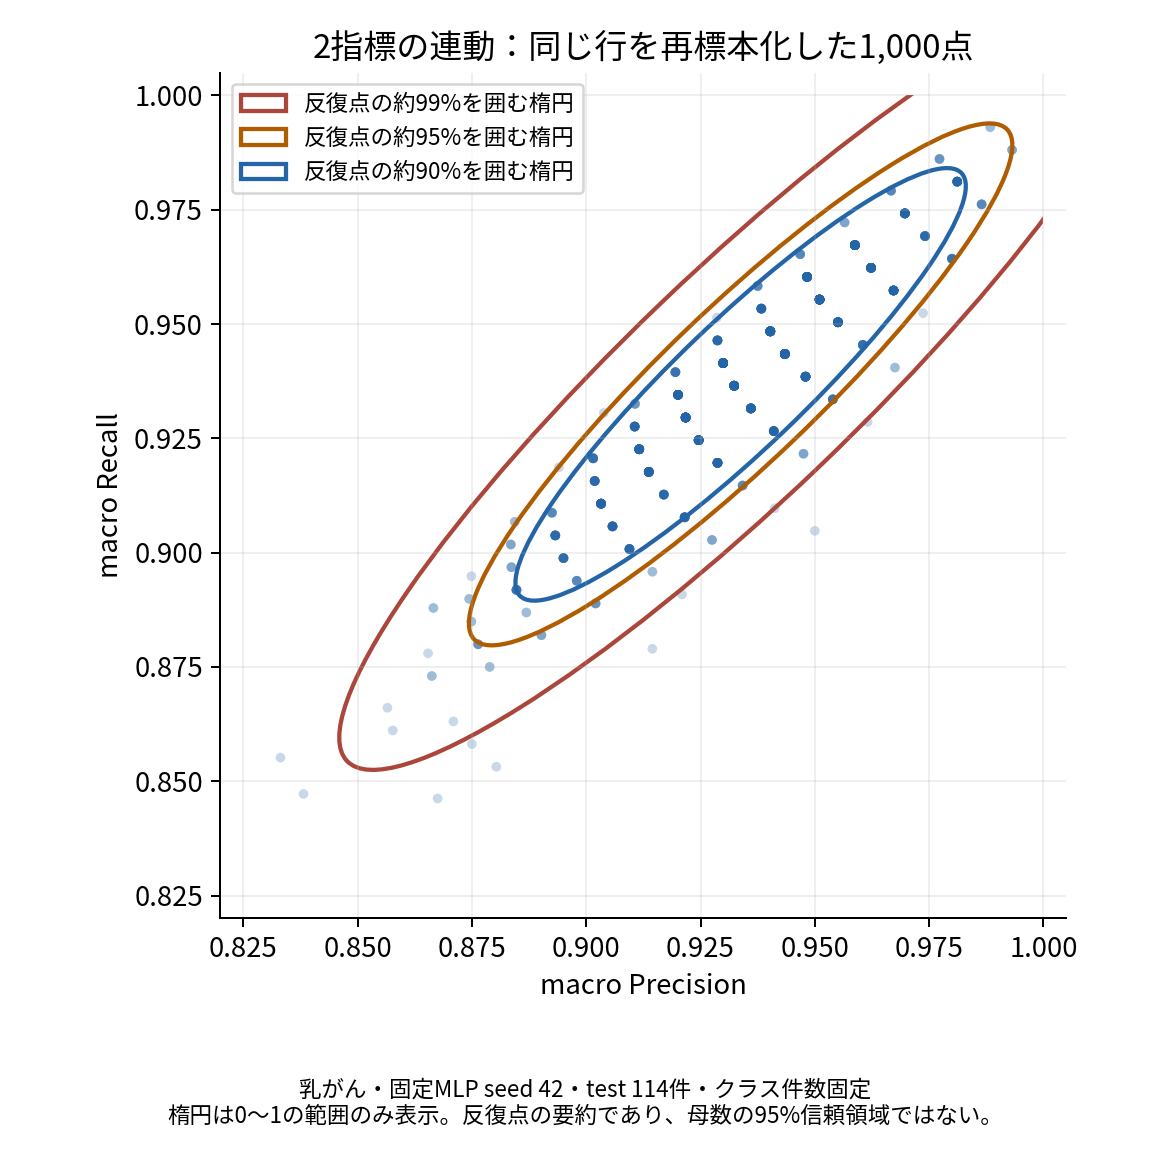
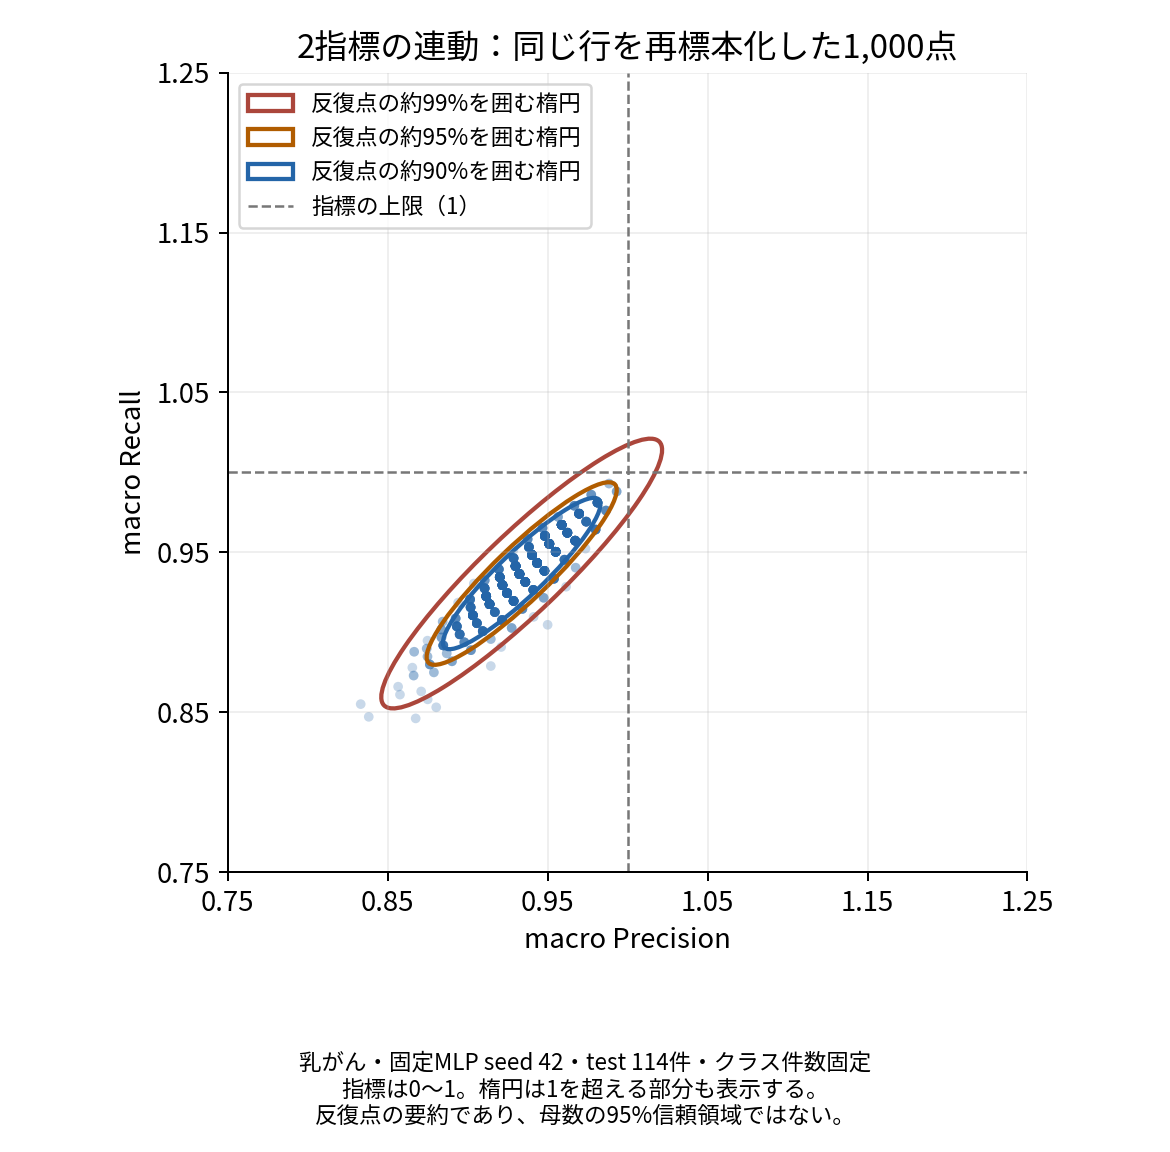
docs: show complete bootstrap ellipses on wider axes

diff --git a/scripts/render_evaluation_article_figures.py b/scripts/render_evaluation_article_figures.py
@@ -12,7 +12,7 @@ os.environ.setdefault('MPLCONFIGDIR', str(Path(tempfile.gettempdir()) / 'diy-aut
 import matplotlib
 matplotlib.use('Agg')
 import matplotlib.pyplot as plt
-from matplotlib.patches import Ellipse, Rectangle
+from matplotlib.patches import Ellipse
 import numpy as np
 import pandas as pd
 from sklearn.metrics import f1_score
@@ -153,19 +153,23 @@ def main():
                           fill=False, edgecolor=color, lw=1.7,
                           label=f'反復点の約{fraction:.0%}を囲む楕円')
         ax.add_patch(ellipse)
-        ellipse.set_clip_path(Rectangle((0, 0), 1, 1, transform=ax.transData))
         ellipse_records.append(dict(fraction=fraction, actual_fraction=coverage,
                                      squared_distance_threshold=threshold))
     point = next(r for r in records if r['dataset'] == 'breast_cancer' and r['training_seed'] == 42)
-    ax.set(xlabel='macro Precision', ylabel='macro Recall', xlim=(.82, 1.005), ylim=(.82, 1.005),
+    ax.set(xlabel='macro Precision', ylabel='macro Recall', xlim=(.75, 1.25), ylim=(.75, 1.25),
            title='2指標の連動：同じ行を再標本化した1,000点')
+    ax.set_xticks(np.linspace(.75, 1.25, 6))
+    ax.set_yticks(np.linspace(.75, 1.25, 6))
+    ax.axvline(1, color='#777777', ls='--', lw=1, label='指標の上限（1）')
+    ax.axhline(1, color='#777777', ls='--', lw=1)
     ax.set_aspect('equal')
     ax.grid(alpha=.2)
     ax.legend(loc='upper left', fontsize=9)
     fig.text(.5, .025, f"乳がん・固定MLP seed 42・test {point['test_rows']}件・クラス件数固定\n"
-             '楕円は0〜1の範囲のみ表示。反復点の要約であり、母数の95%信頼領域ではない。',
+             '指標は0〜1。楕円は1を超える部分も表示する。\n'
+             '反復点の要約であり、母数の95%信頼領域ではない。',
              ha='center', fontsize=9)
-    fig.tight_layout(rect=(0, .1, 1, 1))
+    fig.tight_layout(rect=(0, .14, 1, 1))
     save(fig, 'evaluation-joint-bootstrap.png')
 
     assert before == {str(p.relative_to(ROOT)): digest(p) for p in inputs}, 'Inputs changed'
@@ -175,6 +179,8 @@ def main():
         validated_saved_runs=6, independent_sklearn_checks=24, estimates=records,
         breast_cancer_history=history_summary,
         joint_bootstrap=dict(dataset='breast_cancer', training_seed=42,
+            axis_limits=dict(x=[.75, 1.25], y=[.75, 1.25]),
+            ellipse_clipped_to_metric_domain=False,
             correlation=float(np.corrcoef(points, rowvar=False)[0, 1]),
             method='Empirical quantiles of squared Mahalanobis distances around bootstrap mean; '
                    'descriptive point coverage, not parameter confidence coverage',

diff --git a/docs/ZENN_EDITORIAL_NOTES.md b/docs/ZENN_EDITORIAL_NOTES.md
@@ -1,5 +1,13 @@
 # Zenn原稿の一次稿と確認する観点
 
+## 2026年11月12日：公開後の楕円図の表示範囲修正
+
+利用者からZennでの公開完了と、AIチェッカーのレビュー結果の共有があった。公開済み本文の取得による照合とは区別する。
+
+`evaluation-joint-bootstrap.png` の見切れについて、利用者の提案どおりx・y両軸を0.75〜1.25へ広げた。初稿には軸範囲に加え、楕円を指標の定義域0〜1で切り落とす設定があったため、その制限を解除した。指標自体の上限1は破線で示し、楕円が1を超える部分は点群の幾何学的な要約であり、その値の観測を意味しないと図注・本文に記載した。
+
+同じ再描画コードで図と描画記録を更新した。99%楕円の外接範囲はPrecision約0.846〜1.022、Recall約0.852〜1.021で、全体が新しい軸内に収まることを確認した。元の入力ファイル、反復値・統計量、学習履歴、他の2図のハッシュは不変。保存済み6出力の検証と24件の独立照合も再実行した。今回の反映用ブランチは `docs/joint-bootstrap-axis-range`、反映先は `main`。
+
 ## 2026年11月12日：親記事の改稿と実測図
 
 追加の方針として、アヤメなどの定番データで仕組みを確かめた先に「性質をまだ十分に知らないデータから、統計量・誤差・過程の記録を通じて品質を議論する」という方向を親記事の導入と結論へ反映した。今後の流れを、出典・意味・評価単位の確認→分布や欠損等の点検→処理を通じた変化と揺れの追跡→用途に応じた追加確認、の4段階で記載した。誤差伝搬の公式は今回載せず、相関・非線形性と、入力の測定不確かさ／指標の標本不確かさの違いを短く説明する。汎用の品質診断や入力からの誤差伝搬を実装済みとは扱わない。
@@ -9,7 +17,7 @@
 - 構成は、誤差が必要な理由→誤差の由来とデータ品質→途中経過を保存する目的→組込み3データ→実測の区間・学習履歴・2指標の連動→業務例→結論。
 - Iris・Wine・乳がんのMLPについて、保存済みの全2学習seed（42/43）を使った点推定のみ／条件付き95%区間付きの比較図を追加した。数値を再生成せず、既存の予測とbootstrap出力を使用した。
 - 乳がんの全2seedの学習・検証損失を描画し、seed 42では検証損失が12 epochで約0.090、100 epochで約0.246となる推移を記載した。過学習を調べる手掛かりとして扱い、原因の確定や早期終了による改善実績とはしていない。
-- 乳がん・固定seed 42のPrecision/Recallのbootstrap反復点と、その点群の約90/95/99%を含む経験的な楕円を追加した。母数の信頼領域や全体的な品質保証とは説明しない。図は指標の0〜1の範囲のみ表示する。
+- 乳がん・固定seed 42のPrecision/Recallのbootstrap反復点と、その点群の約90/95/99%を含む経験的な楕円を追加した。母数の信頼領域や全体的な品質保証とは説明しない。初稿では指標の0〜1の範囲のみ表示していたが、公開後の修正で制限を解除した（上記）。
 - ホテルの点推定と差の区間の読み方を既存修正方針に合わせた。差の区間は以前のレビュー試算であり、今回の新規計算や現行パッケージの標準機能とはしていない。
 - 親記事の新モデル・別frameworkの展望はdetailsへ集約した。DS/BP原稿の本文改稿は今後として、前回の記事リンク修正を保持した。
 

diff --git a/docs/HANDOFF.md b/docs/HANDOFF.md
@@ -43,6 +43,8 @@
 - 保存済みの3データ・全2学習seedから区間表示の比較図、乳がんの学習履歴と2指標のbootstrap図を追加した。再描画コードは `scripts/render_evaluation_article_figures.py`、図は `images/diy-automl/evaluation-*.png`、根拠とハッシュは [描画記録](figures/evaluation-article-data.json)。新しい学習やアプリ機能の追加はしていない。
 - 利用者が親記事の改稿を確認し、commit・push・mainへのmergeを依頼した。作業ブランチは `docs/evaluation-uncertainty-process`、反映先は `main`。対応するコミットと統合履歴は、親記事と本書のGit履歴で確認できる。
 - 記事の `published: false` とアプリ本体は変更していない。Zenn掲載版の更新操作は行っておらず、GitHubへの反映とは区別する。
+- 親記事の改稿はコミット `81feaa9`、mainへのマージは `1d2d65a`。その後、利用者からZennでの公開完了の共有があった。
+- 公開後の依頼により、相関図の両軸を0.75〜1.25に広げ、楕円を0〜1で切り落としていた制限を解除した。図・本文の図注・再描画コード・描画記録を更新した。点群・統計量・元データ・他の2図は不変で、楕円全体が新しい表示範囲内に収まることを確認済み。追加修正のブランチは `docs/joint-bootstrap-axis-range`、反映先は `main`。
 
 | 作業 | 状態・分担 |
 | --- | --- |
@@ -52,7 +54,7 @@
 | 実行結果・Excelの紹介 | 親記事に実測図と対象Excel・最初に見るシート/列を追加。Excelのスクリーンショットは未追加 |
 | 差の区間等の実装 | 後続。修正方針と既存ROADMAPへ接続して進める |
 
-次の一手：親記事は利用者確認済み。続けてBP/DS記事の解釈・条件・図を揃える。Zenn掲載版との照合・更新は、GitHubでの保存・main統合と区別して扱う。
+次の一手：Zenn掲載版に今回の楕円図と図注の修正を反映する。その後、BP/DS記事の解釈・条件・図を揃える。Zenn掲載版との照合・更新は、GitHubでの保存・main統合と区別して扱う。
 
 親記事の今回の図は、保存済み学習3出力・誤差評価3出力を既存検証器で再検証し、点推定と一部再標本化をscikit-learnで計24照合して生成した。入力ファイルのハッシュ不変、記事の数値・画像パス・Zenn形式を確認済み。Zenn CLI 0.5.14とChromium/Playwrightで1280px/390px幅の表示、全3画像、details変換を確認した（モバイル幅ではプレビュー用サイドバーを閉じた）。新しい学習やパッケージ全テストの再実行は対象に含まない。
 
